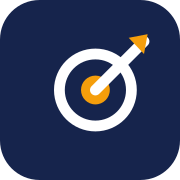
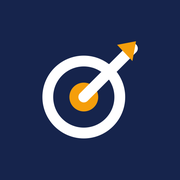
Telefondaki iki ikon/isim sorunu duzeltildi
1) ACILIS EKRANINDA UZUN BASLIK
   Telefonda uygulama acilirken logonun altinda "Rehberim — LGS Calisma
   Platformu" yaziyordu (manifest'teki `name` alani). Artik yalniz marka
   adi: name = "Rehberim". Uzun tanitim metni `description` alaninda kaldi.

2) LOGO ORTALI DEGILDI — iki ayri sebep
   a) Logo, lacivert karenin icinde gercekten kaymisti: 33px saga, 20px
      yukari. Sol bosluk 153px iken sag bosluk 87px idi (olculdu).
   b) manifest.json AYNI dosyayi hem "any" hem "maskable" amaciyla
      gosteriyordu. Android maskable ikonu daire/squircle'a kirpar ve
      yalniz ortadaki %80'lik guvenli bolgeyi korur; kenardan kenara
      cizilmis bu ikonda dis %20 kesiliyor, yuvarlak koseler ve okun ucu
      gidiyordu. Sonuc: logo hem kirpik hem kaymis gorunuyordu.

   Cozum: tools/ikon-uret.py ile ikonlar yeniden uretildi.
   - icon-512/192.png     : logo tam ortada (kayma 0px, bosluklar esit)
   - icon-maskable-512.png: YENI ve AYRI dosya. Kenardan kenara dolu
     lacivert (saydamlik yok), logo guvenli bolgenin icinde — dogrulandi:
     guvenli bolge disinda 0 logo pikseli kaldi.
   - apple-touch-icon.png : iOS saydamligi SIYAHA cevirdigi icin opak.

TEST
- tools/test-manifest.mjs: manifest ve ikon dosyalari icin 16 kontrol.
  Bu iki hatanin sessizce geri gelmesini engeller.
- `npm test` artik iki test dosyasini birden calistirir.

Bu pakette veritabani degisikligi yok.

Claude-Session: https://claude.ai/code/session_01B6esdN7PqmwQC6WKepVRFZ

diff --git a/tools/ikon-uret.py b/tools/ikon-uret.py
@@ -1,0 +1,126 @@
+#!/usr/bin/env python3
+"""
+Rehberim uygulama ikonlarını üretir.
+
+NE ZAMAN ÇALIŞTIRILIR: yalnız marka logosu değişirse. Çıktı PNG'leri
+depoya işlenir; derleme sırasında çalışmaz (Pillow bir bağımlılık değil).
+
+    python3 tools/ikon-uret.py
+
+NEDEN VAR:
+  1. Logo, lacivert karenin İÇİNDE ortalanmamıştı — 33px sağa, 20px
+     yukarı kaymıştı (sol boşluk 153px, sağ boşluk 87px). Telefonun ana
+     ekranında bu gözle görülüyordu.
+  2. manifest.json aynı dosyayı hem "any" hem "maskable" amaçlı
+     gösteriyordu. Android maskable ikonu daire/squircle'a kırpar ve
+     YALNIZ ortadaki %80'lik "güvenli bölge"yi korur. Kenardan kenara
+     çizilmiş bu ikonda dış %20 kesiliyor, yuvarlak köşeler ve okun ucu
+     gidiyordu — logo kırpılmış ve kaymış görünüyordu.
+
+ÇÖZÜM: iki ayrı ikon üretiliyor.
+  * icon-192/512.png      → "any": yuvarlak köşeli kare, köşeler saydam,
+                            logo tam ortada.
+  * icon-maskable-512.png → "maskable": KENARDAN KENARA dolu lacivert
+                            kare (saydamlık yok), logo güvenli bölgenin
+                            içinde ortada. Android kırpsa da logo bozulmaz.
+  * apple-touch-icon.png  → iOS saydamlığı siyaha çevirdiği için opak.
+"""
+
+from PIL import Image, ImageDraw
+
+KAYNAK = "public/icon-512.png"
+LACIVERT = (22, 36, 76, 255)
+BOYUT = 512
+# Orijinal ikonun köşe yarıçapı ölçüldü: ~%20
+KOSE_YARICAP = int(BOYUT * 0.20)
+
+
+def logo_kutusu(im):
+    """Lacivert zeminden farklı (yani logoya ait) piksellerin sınırları."""
+    px = im.load()
+    w, h = im.size
+    minx, miny, maxx, maxy = w, h, -1, -1
+    for y in range(h):
+        for x in range(w):
+            r, g, b, a = px[x, y]
+            if a < 40:
+                continue
+            if abs(r - 22) + abs(g - 36) + abs(b - 76) > 90:
+                minx = min(minx, x)
+                maxx = max(maxx, x)
+                miny = min(miny, y)
+                maxy = max(maxy, y)
+    return minx, miny, maxx, maxy
+
+
+def yuvarlak_kare(boyut, yaricap, renk):
+    im = Image.new("RGBA", (boyut, boyut), (0, 0, 0, 0))
+    d = ImageDraw.Draw(im)
+    d.rounded_rectangle([0, 0, boyut - 1, boyut - 1], radius=yaricap, fill=renk)
+    return im
+
+
+def main():
+    kaynak = Image.open(KAYNAK).convert("RGBA")
+    if kaynak.size != (BOYUT, BOYUT):
+        kaynak = kaynak.resize((BOYUT, BOYUT), Image.LANCZOS)
+
+    minx, miny, maxx, maxy = logo_kutusu(kaynak)
+    gw, gh = maxx - minx + 1, maxy - miny + 1
+    print(f"logo kutusu {gw}x{gh}, boşluklar sol={minx} sağ={BOYUT-1-maxx} "
+          f"üst={miny} alt={BOYUT-1-maxy}")
+
+    # Logoyu çevresindeki DÜZ lacivert zeminle birlikte kesiyoruz; zemin her
+    # yerde birebir aynı renk olduğu için yapıştırma dikişsiz olur ve
+    # kenar yumuşatması (anti-aliasing) bozulmaz.
+    pay = 8
+    kesim = kaynak.crop(
+        (max(0, minx - pay), max(0, miny - pay),
+         min(BOYUT, maxx + 1 + pay), min(BOYUT, maxy + 1 + pay))
+    )
+    kw, kh = kesim.size
+
+    def ortala(zemin):
+        hedef = zemin.copy()
+        hedef.paste(kesim, ((BOYUT - kw) // 2, (BOYUT - kh) // 2))
+        return hedef
+
+    # ---- 1) Normal ikon: yuvarlak köşeli, köşeler saydam ----
+    normal = ortala(yuvarlak_kare(BOYUT, KOSE_YARICAP, LACIVERT))
+    # Köşe saydamlığını geri uygula (yapıştırma kareyi doldurdu)
+    maske = yuvarlak_kare(BOYUT, KOSE_YARICAP, (255, 255, 255, 255)).split()[3]
+    normal.putalpha(maske)
+    normal.save("public/icon-512.png")
+    normal.resize((192, 192), Image.LANCZOS).save("public/icon-192.png")
+    print("yazıldı: public/icon-512.png, public/icon-192.png")
+
+    # ---- 2) Maskable: kenardan kenara dolu, logo güvenli bölgede ----
+    # Güvenli bölge = ortadaki %80 çap. Logo kutusunun köşegeni bu dairenin
+    # içinde kalmalı; kalmıyorsa küçültülür.
+    maskable = Image.new("RGBA", (BOYUT, BOYUT), LACIVERT)
+    guvenli_yaricap = BOYUT * 0.8 / 2
+    kosegen = ((gw / 2) ** 2 + (gh / 2) ** 2) ** 0.5
+    olcek = min(1.0, guvenli_yaricap / kosegen)
+    if olcek < 1.0:
+        yeni = (max(1, int(kw * olcek)), max(1, int(kh * olcek)))
+        kucuk = kesim.resize(yeni, Image.LANCZOS)
+    else:
+        kucuk = kesim
+    print(f"maskable ölçek {olcek:.3f} (köşegen {kosegen:.0f} / "
+          f"güvenli yarıçap {guvenli_yaricap:.0f})")
+    mw, mh = kucuk.size
+    maskable.paste(kucuk, ((BOYUT - mw) // 2, (BOYUT - mh) // 2))
+    maskable.save("public/icon-maskable-512.png")
+    print("yazıldı: public/icon-maskable-512.png")
+
+    # ---- 3) apple-touch-icon: iOS saydamlığı SİYAHA çevirir → opak ----
+    elma = Image.new("RGBA", (BOYUT, BOYUT), LACIVERT)
+    elma.paste(kesim, ((BOYUT - kw) // 2, (BOYUT - kh) // 2))
+    elma.convert("RGB").resize((180, 180), Image.LANCZOS).save(
+        "public/apple-touch-icon.png"
+    )
+    print("yazıldı: public/apple-touch-icon.png")
+
+
+if __name__ == "__main__":
+    main()
